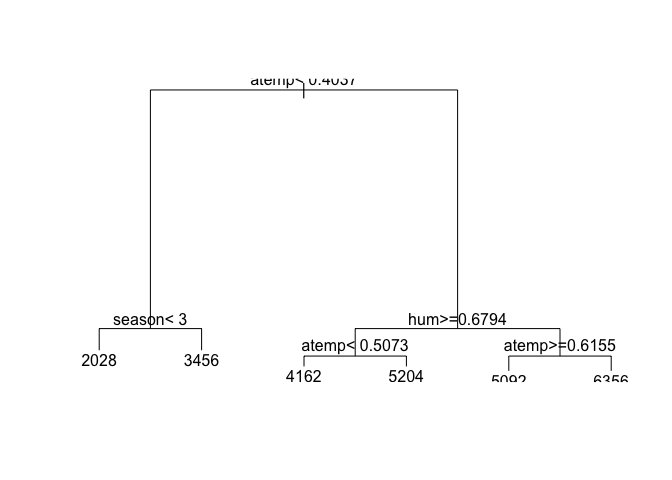
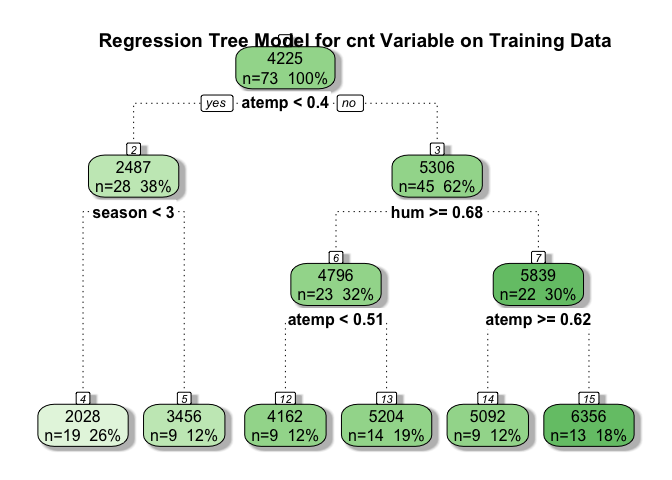
Completed Two Models

diff --git a/Project_2.md b/Project_2.md
@@ -13,6 +13,8 @@ Kolton Wiebusch
   - [Summarizations](#summarizations)
   - [Plots](#plots)
   - [Modeling](#modeling)
+      - [Regression Tree Model](#regression-tree-model)
+      - [Boosted Tree Model](#boosted-tree-model)
 
 # Required Packages
 
@@ -21,6 +23,7 @@ library(tidyverse)
 library(caret)
 library(knitr)
 library(rpart)
+library(rattle)
 ```
 
 # Introduction
@@ -177,6 +180,7 @@ it does appear that as wind speed increases, generally, the number of
 bikes rented decreases somewhat.
 
 ``` r
+#count vs wind speed scatter plot
 wind <- ggplot(bikeTrain, aes(x = windspeed, y = cnt))
 wind + geom_point() + labs(title = "Count vs Wind Speed", x = "Wind Speed (Percentage of Max of 67 MPH)", y = "Bike Rentals") + geom_text(x = .35, y = 7500, size = 3, label = paste0("Correlation = ", round(cor(bikeTrain$windspeed, bikeTrain$cnt), 2)), col = "red")
 ```
@@ -184,6 +188,7 @@ wind + geom_point() + labs(title = "Count vs Wind Speed", x = "Wind Speed (Perce
 ![](Project_2_files/figure-gfm/plots-1.png)<!-- -->
 
 ``` r
+#count vs temp scatter plot
 temp <- ggplot(bikeTrain, aes(x = atemp, y = cnt))
 temp + geom_point() + labs(title = "Count vs Temperature", x = "Normalized Temperature in Celsius (Percentage of Max of 50)", y = "Bike Rentals") + geom_text(x = .2, y = 7500, size = 3, label = paste0("Correlation = ", round(cor(bikeTrain$atemp, bikeTrain$cnt), 2)), col = "red")
 ```
@@ -191,6 +196,7 @@ temp + geom_point() + labs(title = "Count vs Temperature", x = "Normalized Tempe
 ![](Project_2_files/figure-gfm/plots-2.png)<!-- -->
 
 ``` r
+#count vs humidity scatter plot
 humidity <- ggplot(bikeTrain, aes(x = hum, y = cnt))
 humidity + geom_point() + labs(title = "Count vs Humidity", x = "Normalized Humidity Values (Percentage of Max of 100)", y = "Bike Rentals") + geom_text(x = .35, y = 7500, size = 3, label = paste0("Correlation = ", round(cor(bikeTrain$hum, bikeTrain$cnt), 2)), col = "red")
 ```
@@ -199,10 +205,30 @@ humidity + geom_point() + labs(title = "Count vs Humidity", x = "Normalized Humi
 
 # Modeling
 
+## Regression Tree Model
+
+The first model to be fit on this training data is a regression tree
+model. This fit uses recursive binary splitting and tries to minimize
+residual sums of squares at each predictor. The response variable the
+model is trying to predict for is cnt, or the count of bike rentals. The
+predictors are all 8 other variables narrowed down in the introduction
+section. Leave one out cross validation is used, which is a type of
+cross-validation approach in which each observation is considered as the
+validation set and the rest (N-1 observations) are considered as the
+training set. This method helps reduce bias and randomness. The tuning
+parameter of cp for the rpart method is set to replicate at 10 values to
+see which fit has the lowest RMSE and MAE and the highest R-squared
+value. After the everything has run, the optimal model will be chosen
+and saved in the object to later be used on the test set. Details about
+the final model are shown below.
+
 ``` r
+#Using caret package to fit training data to regression tree using LOOCV
 bikeReg <- train(cnt ~ ., data = bikeTrain, method = "rpart",
-                 trControl = trainControl(method = "LOOCV"), 
+                 trControl = trainControl(method = "LOOCV"),
                  tuneLength = 10)
+
+#Display fit details
 bikeReg
 ```
 
@@ -232,8 +258,58 @@ bikeReg
     ## The final value used for the model was cp = 0.
 
 ``` r
-plot(bikeReg$finalModel)
-text(bikeReg$finalModel)
+#Best tuning parameter value for the final model
+kable(bikeReg$bestTune)
+```
+
+| cp |
+| -: |
+|  0 |
+
+``` r
+#Displaying the final model
+fancyRpartPlot(bikeReg$finalModel, main = "Regression Tree Model for cnt Variable on Training Data", sub = NULL)
 ```
 
 ![](Project_2_files/figure-gfm/model%201-1.png)<!-- -->
+
+## Boosted Tree Model
+
+The second model to be fit on this training data is a boosted tree
+model. This fit is basically a slow training of trees, as predictions
+are updated as the tree grows. The response variable the model is trying
+to predict for is cnt, or the count of bike rentals. The predictors are
+all 8 other variables narrowed down in the introduction section.
+Repeated cross validation is used, with the parameters of number = 10
+and repeats = 5. Thus, 10 different folds of cross validation is
+repeated 5 times. Also tuning parameters set for the gbm model are
+interaction.depth, n.trees, shrinkage, and n.minobsinnode. These all
+have various lengths to check except for shrinkage. After this has all
+been run, a final model with the lowest RMSE and MAE and highest R
+Squared will be selected for use on the test set. Details about the
+final model are shown below.
+
+``` r
+#Using caret package to fit training data to boosted tree model using repeated cv
+bikeBoost <- train(cnt ~ ., data = bikeTrain, method = "gbm",
+                   trControl = trainControl(method = "repeatedcv", number = 10, repeats = 5),
+                   verbose = FALSE, tuneGrid = expand.grid(interaction.depth = c(1,2,3,4,5), 
+                                                           n.trees = c(25, 50, 75, 100, 125, 150),
+                                                           shrinkage = 0.1, n.minobsinnode = c(5, 10, 15)))
+
+#Best tuning parameter values for the final model
+kable(bikeBoost$bestTune)
+```
+
+|   | n.trees | interaction.depth | shrinkage | n.minobsinnode |
+| :- | ------: | ----------------: | --------: | -------------: |
+| 2 |      50 |                 1 |       0.1 |              5 |
+
+``` r
+#Details about final model
+bikeBoost$finalModel
+```
+
+    ## A gradient boosted model with gaussian loss function.
+    ## 50 iterations were performed.
+    ## There were 8 predictors of which 4 had non-zero influence.
